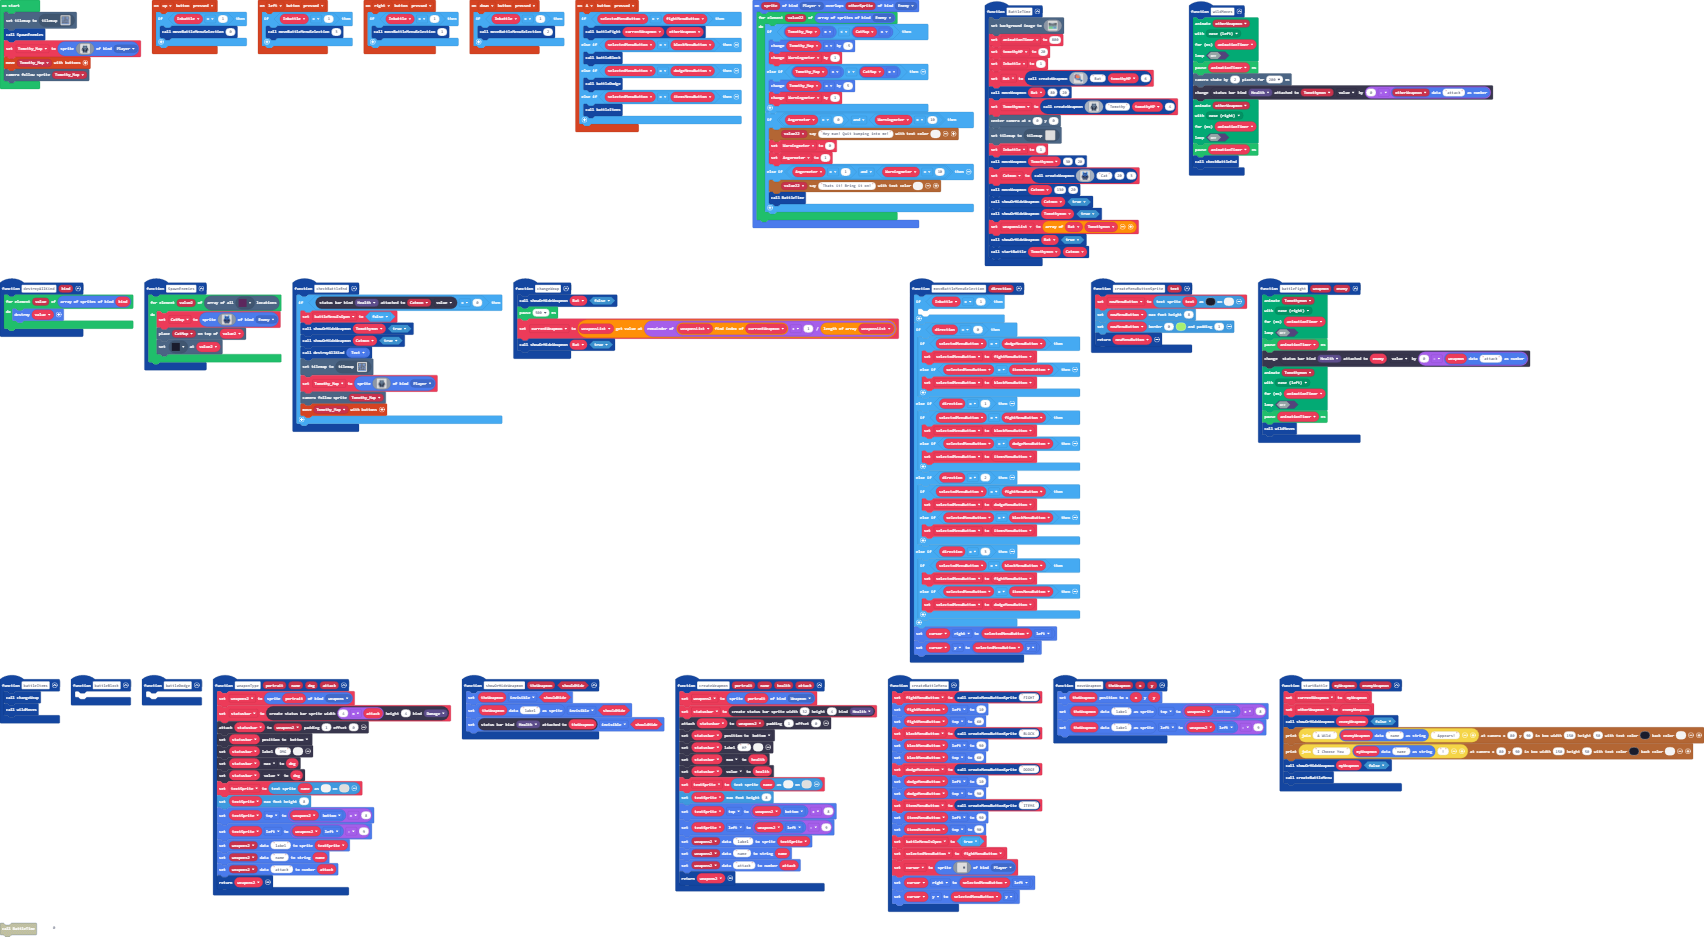
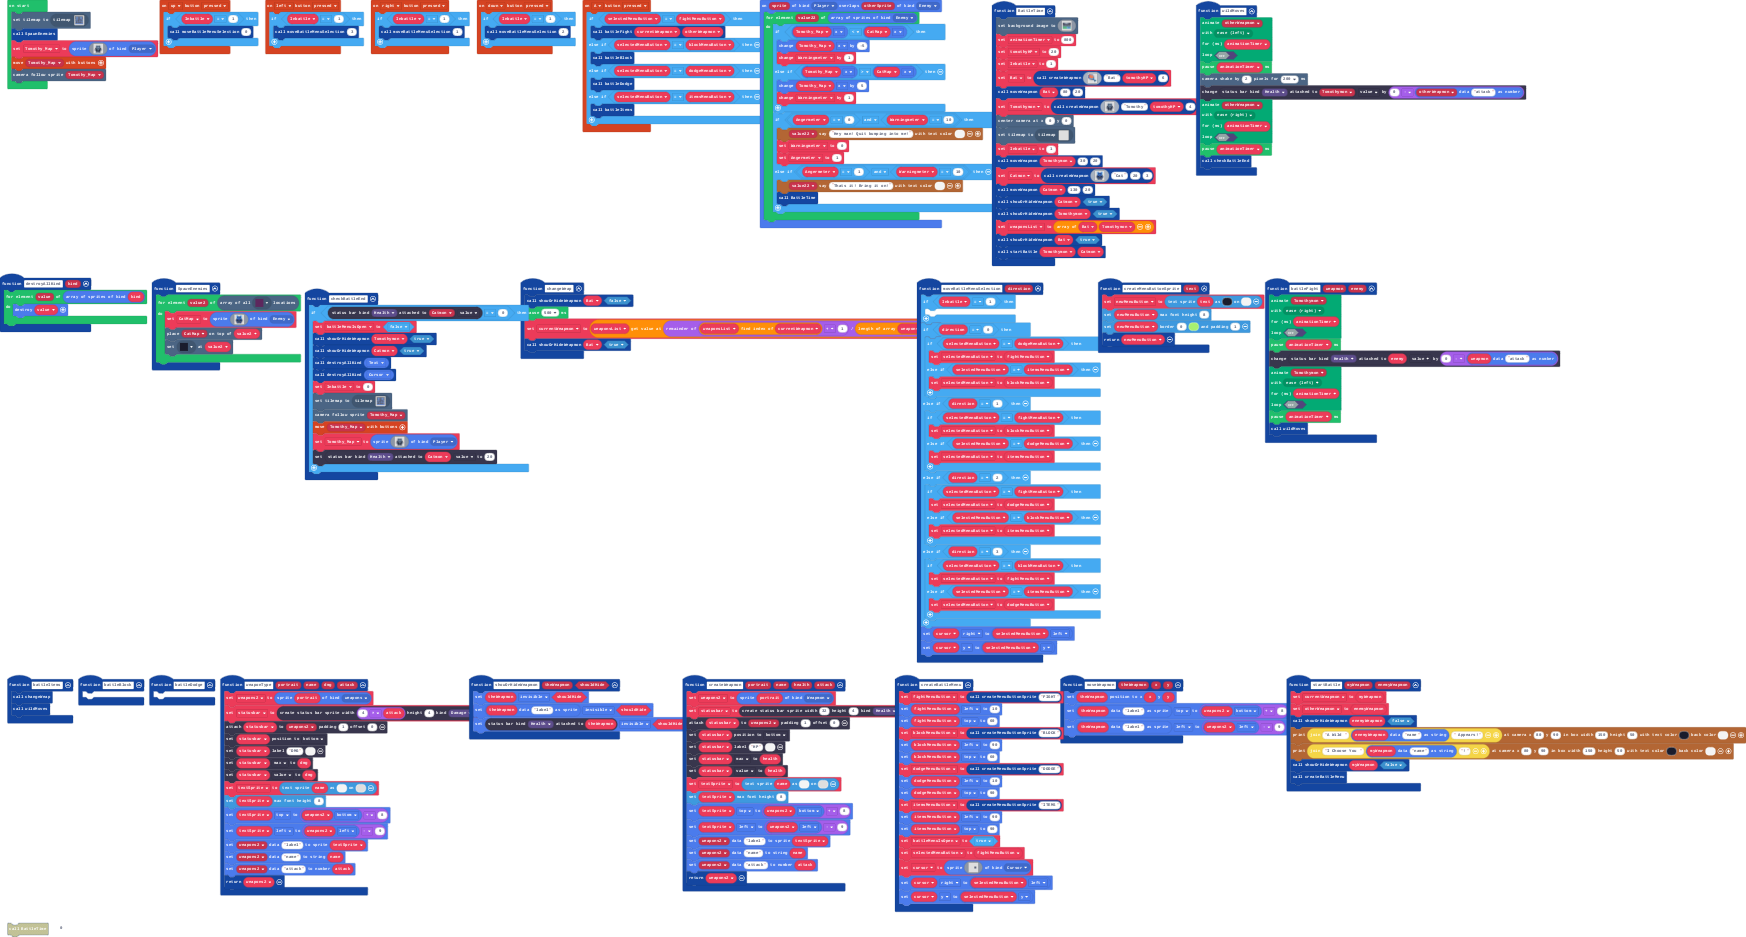
Update main.blocks, main.ts

Changed region(s): [[0.0, 0.0, 0.9953, 0.9904], [0.0, 0.9904, 0.0311, 1.0]]

diff --git a/main.ts b/main.ts
@@ -1,6 +1,7 @@
 namespace SpriteKind {
     export const Weapmon = SpriteKind.create()
     export const weapons = SpriteKind.create()
+    export const Cursor = SpriteKind.create()
 }
 namespace StatusBarKind {
     export const Damage = StatusBarKind.create()
@@ -78,10 +79,13 @@ function checkBattleEnd () {
         showOrHideWeapmon(Tomothymon, true)
         showOrHideWeapmon(Catmon, true)
         destroyAllKind(SpriteKind.Text)
+        destroyAllKind(SpriteKind.Cursor)
+        Inbattle = 0
         tiles.setCurrentTilemap(tilemap`temp map`)
-        Tomothy_Map = sprites.create(assets.image`myImage0`, SpriteKind.Player)
         scene.cameraFollowSprite(Tomothy_Map)
         controller.moveSprite(Tomothy_Map)
+        Tomothy_Map = sprites.create(assets.image`myImage0`, SpriteKind.Player)
+        statusbars.getStatusBarAttachedTo(StatusBarKind.Health, Catmon).value = 20
     }
 }
 function weaponType (portrait: Image, name: string, dmg: number, attack: number) {
@@ -164,7 +168,7 @@ function createBattleMenu () {
     itemsMenuButton.top = 90
     battleMenuIsOpen = true
     selectedMenuButton = fightMenuButton
-    cursor = sprites.create(assets.image`Cursor`, SpriteKind.Player)
+    cursor = sprites.create(assets.image`Cursor`, SpriteKind.Cursor)
     cursor.right = selectedMenuButton.left
     cursor.y = selectedMenuButton.y
 }
